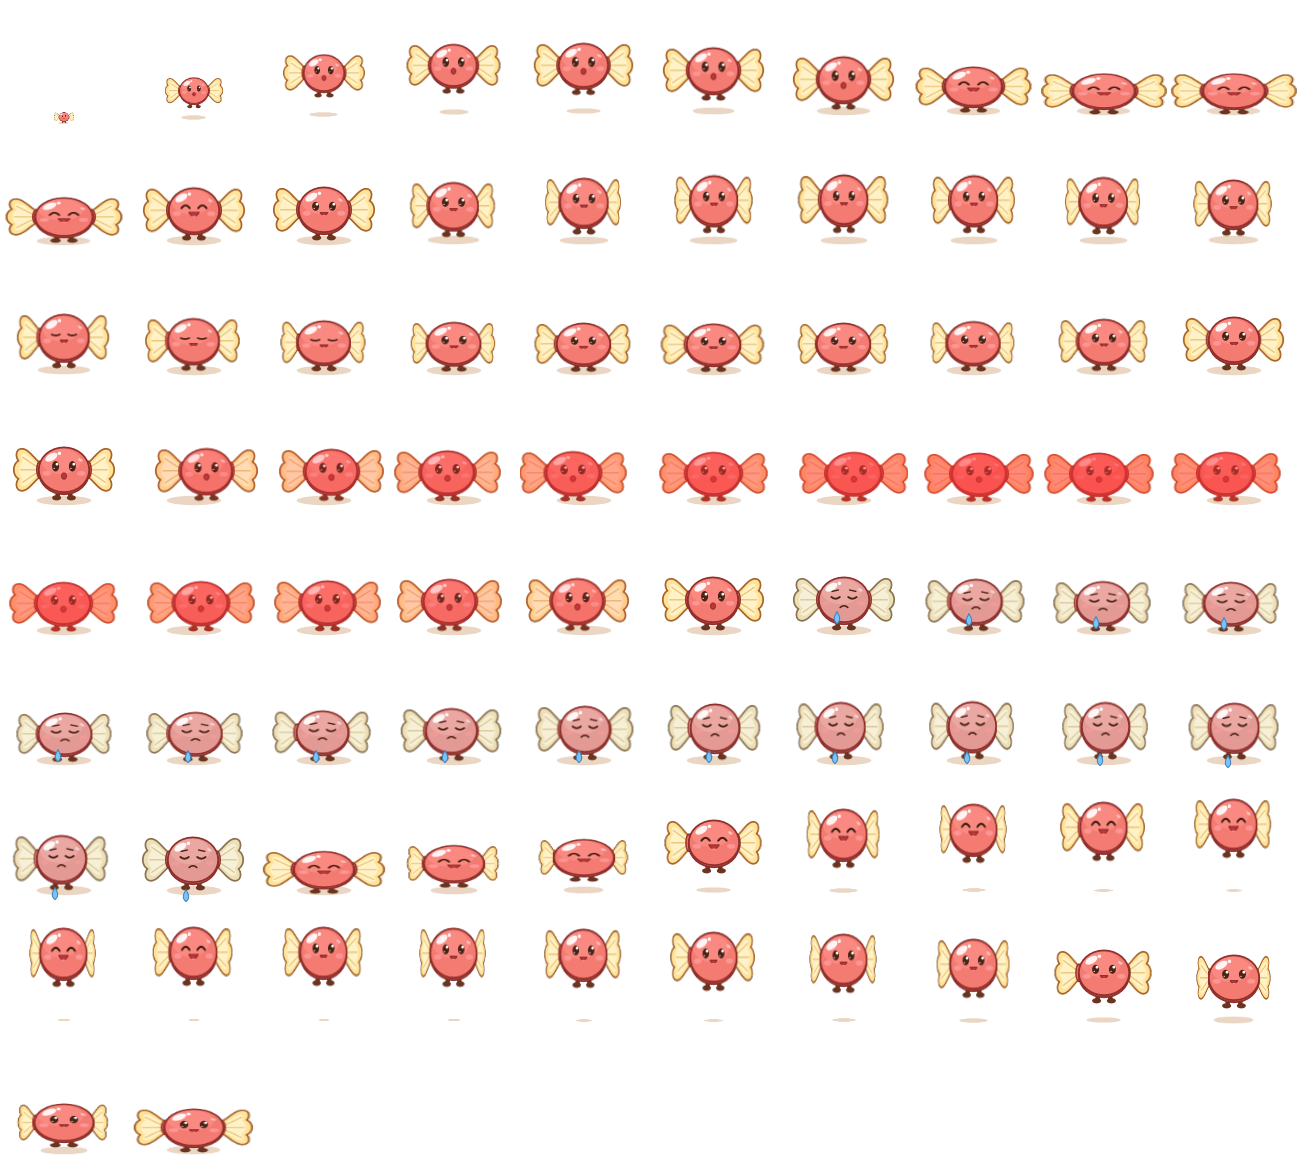
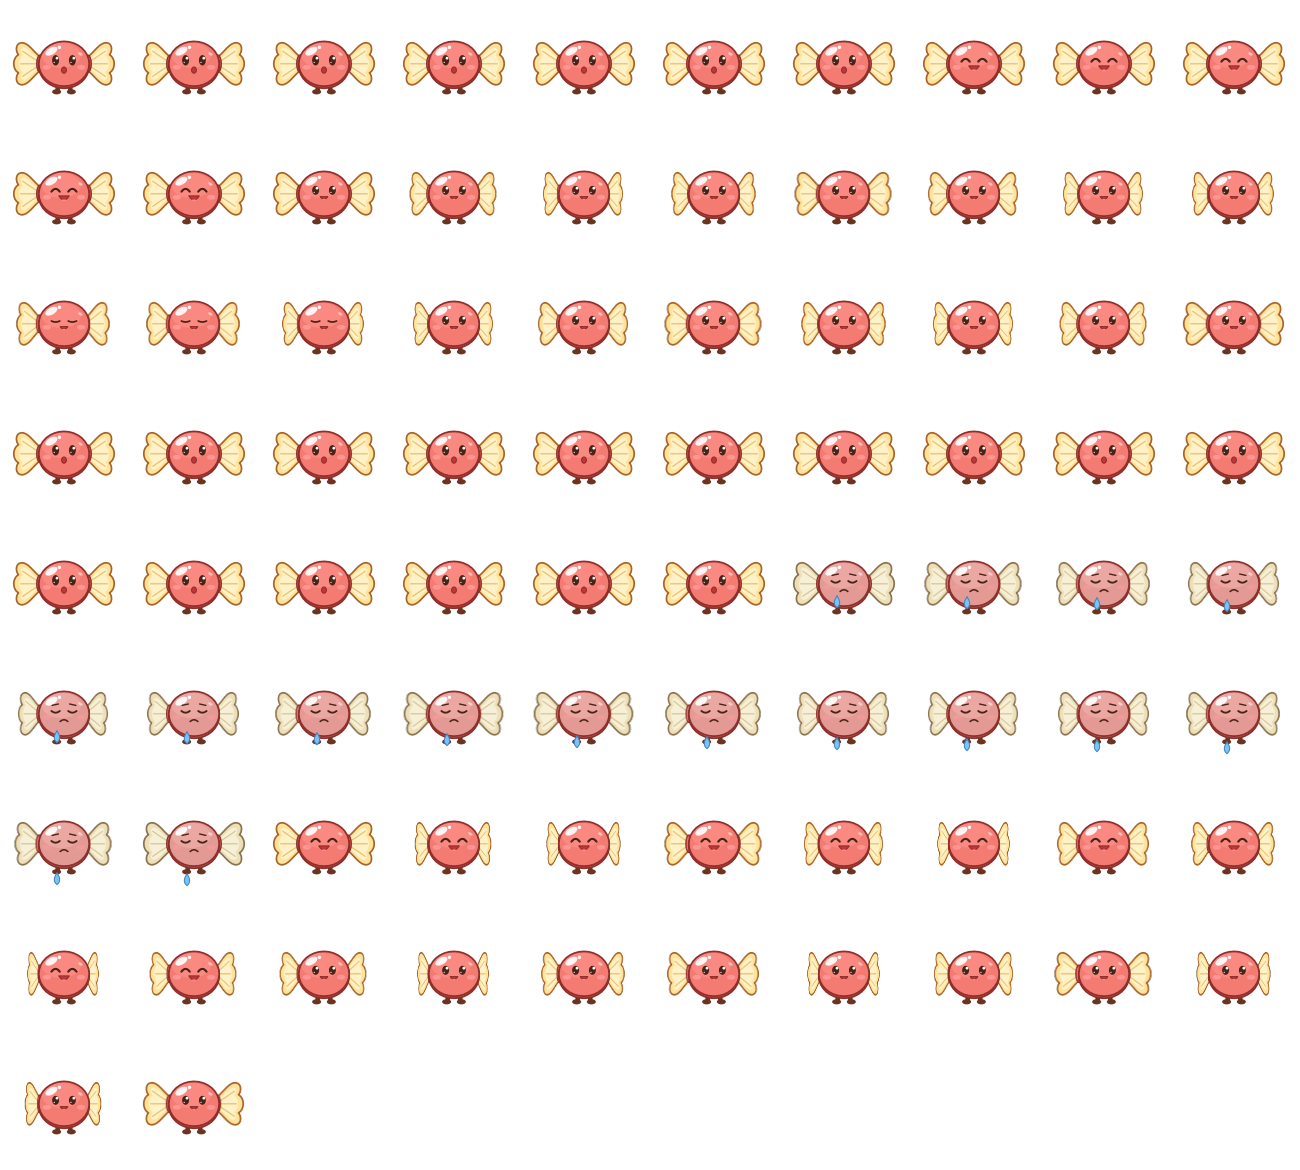
feat(screens): drive mascot body motion at runtime for smooth animation
Atlas keeps only shape frames (expression, wings, tears); squash, hop,
shake and tint are sampled continuously per rendered frame.

diff --git a/docs/superpowers/specs/2026-10-10-candy-sprite-animation-design.md b/docs/superpowers/specs/2026-10-10-candy-sprite-animation-design.md
@@ -77,3 +77,7 @@ Import: VRAM compressed, mipmaps off. Tool có chế độ `--check` để verif
 
 Atlas cho các loại kẹo khác (`bonbon`, `lollipop`, ...), particle mới, âm thanh.
 
+
+## Cập nhật 2026-10-10 — chuyển động hybrid
+
+Để mượt ở mọi tốc độ màn hình, atlas chỉ còn giữ **hình dáng** (biểu cảm, vỗ cánh, thân/cánh buồn, nước mắt) ở vị trí cố định. Chuyển động thân (co giãn, nảy, nhảy, lắc, ửng đỏ) do `game/scripts/screens/mascot_motion.gd` tính liên tục theo `CandyAnimState.progress_of()` và được `candy_cell_drawer.gd` áp khi vẽ, neo tại chân; bóng đổ vẽ runtime và co lại khi nhảy. Board vẽ lại mỗi frame khi còn ô đang chạy, dừng hẳn khi mọi ô nghỉ. Linh vật vẽ ở `MASCOT_TEX_RATIO = 1.15` ô; idle chờ 2.5–5s.
